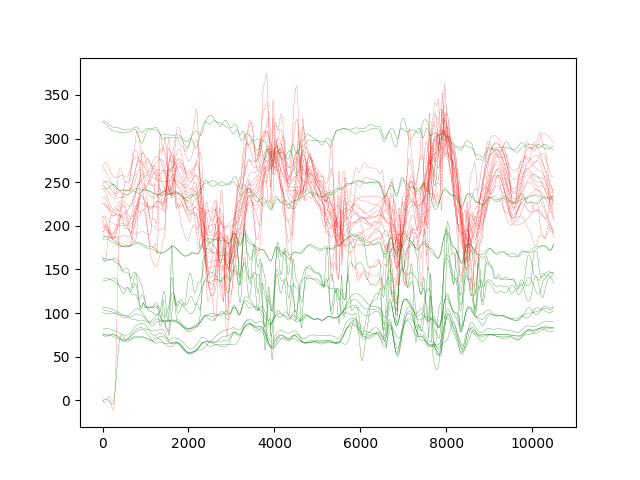
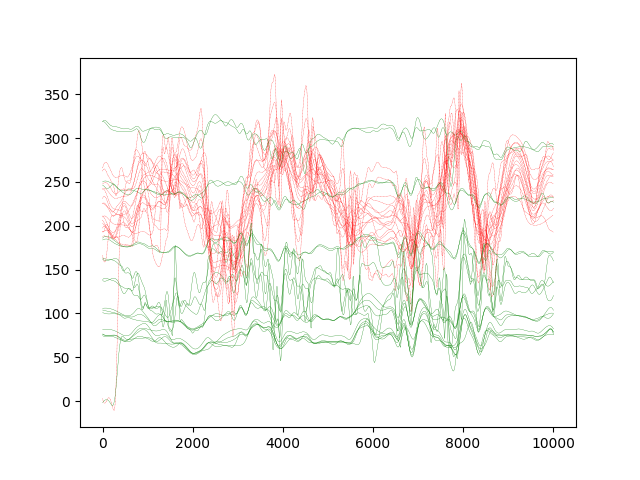
animation interpolation, dynamic frame range, flags dev

diff --git a/src/openpose_3dpose_sandbox.py b/src/openpose_3dpose_sandbox.py
@@ -8,6 +8,7 @@ import re
 import cameras
 import json
 import os
+import time
 from predict_3dpose import create_model
 import cv2
 import imageio
@@ -38,7 +39,7 @@ def read_openpose_json(smooth=True, *args):
     # [x1,y1,c1,x2,y2,c2,...]
     # ignore confidence score, take x and y [x1,y1,x2,y2,...]
 
-    logger.info("start reading data")
+    logger.info("start reading openpose files")
     #load json files
     json_files = os.listdir(openpose_output_dir)
     # check for other file types
@@ -66,8 +67,9 @@ def read_openpose_json(smooth=True, *args):
         cache[int(frame_indx[0])] = xy
     plt.figure(1)
     drop_curves_plot = show_anim_curves(cache, plt)
-    pngName = 'png/dirty_plot.png'
+    pngName = 'gif_output/dirty_plot.png'
     drop_curves_plot.savefig(pngName)
+    logger.info('writing gif_output/dirty_plot.png')
 
     # exit if no smoothing
     if not smooth:
@@ -85,8 +87,8 @@ def read_openpose_json(smooth=True, *args):
     logger.info("start smoothing")
 
     # create frame blocks
-    first_frame_block = [int(re.findall("(\d+)", o)[0]) for o in json_files[:4]]
-    last_frame_block = [int(re.findall("(\d+)", o)[0]) for o in json_files[-4:]]
+    head_frame_block = [int(re.findall("(\d+)", o)[0]) for o in json_files[:4]]
+    tail_frame_block = [int(re.findall("(\d+)", o)[0]) for o in json_files[-4:]]
 
     ### smooth by median value, n frames 
     for frame, xy in cache.items():
@@ -100,10 +102,10 @@ def read_openpose_json(smooth=True, *args):
         # create array of parallel frames (-3<n>3)
         for neighbor in range(1,4):
             # first n frames, get value of xy in postive lookahead frames(current frame + 3)
-            if frame in first_frame_block:
+            if frame in head_frame_block:
                 forward += cache[frame+neighbor]
             # last n frames, get value of xy in negative lookahead frames(current frame - 3)
-            elif frame in last_frame_block:
+            elif frame in tail_frame_block:
                 back += cache[frame-neighbor]
             else:
                 # between frames, get value of xy in bi-directional frames(current frame -+ 3)     
@@ -117,11 +119,11 @@ def read_openpose_json(smooth=True, *args):
         for x in range(0,_len,2):
             # set x and y
             y = x+1
-            if frame in first_frame_block:
+            if frame in head_frame_block:
                 # get vector of n frames forward for x and y, incl. current frame
                 x_v = [xy[x], forward[x], forward[x+_len], forward[x+_len*2]]
                 y_v = [xy[y], forward[y], forward[y+_len], forward[y+_len*2]]
-            elif frame in last_frame_block:
+            elif frame in tail_frame_block:
                 # get vector of n frames back for x and y, incl. current frame
                 x_v =[xy[x], back[x], back[x+_len], back[x+_len*2]]
                 y_v =[xy[y], back[y], back[y+_len], back[y+_len*2]]
@@ -168,20 +170,23 @@ def read_openpose_json(smooth=True, *args):
 def main(_):
     
     smoothed = read_openpose_json()
-    logger.info("reading and smoothing done. start feeding 3d-pose-baseline")
     plt.figure(2)
     smooth_curves_plot = show_anim_curves(smoothed, plt)
-    pngName = 'png/smooth_plot.png'
+    pngName = 'gif_output/smooth_plot.png'
     smooth_curves_plot.savefig(pngName)
+    logger.info('writing gif_output/smooth_plot.png')
     
     if FLAGS.interpolation:
+        logger.info("start interpolation")
+
         framerange = len( smoothed.keys() )
         joint_rows = 36
         array = np.concatenate(list(smoothed.values()))
         array_reshaped = np.reshape(array, (framerange, joint_rows) )
     
-        multiplier = 0.1
+        multiplier = FLAGS.multiplier
         multiplier_inv = 1/multiplier
+
         out_array = np.array([])
         for row in range(joint_rows):
             x = []
@@ -191,20 +196,21 @@ def main(_):
             frame = range( framerange )
             frame_resampled = np.arange(0, framerange, multiplier)
             spl = UnivariateSpline(frame, x, k=3)
+            #relative smooth factor based on jnt anim curve
             min_x, max_x = min(x), max(x)
             smooth_fac = max_x - min_x
-            smooth_fac = smooth_fac * 125
+            smooth_resamp = 125
+            smooth_fac = smooth_fac * smooth_resamp
             spl.set_smoothing_factor( float(smooth_fac) )
             xnew = spl(frame_resampled)
             
             out_array = np.append(out_array, xnew)
     
-        logger.info("done interpolating")
+        logger.info("done interpolating. reshaping {0} frames,  please wait!!".format(framerange))
     
         a = np.array([])
         for frame in range( int( framerange * multiplier_inv ) ):
             jnt_array = []
-            #print(frame)
             for jnt in range(joint_rows):
                 jnt_array.append( out_array[ jnt * int(framerange * multiplier_inv) + frame] )
             a = np.append(a, jnt_array)
@@ -219,9 +225,9 @@ def main(_):
         plt.figure(3)
         smoothed = interpolate_smoothed
         interpolate_curves_plot = show_anim_curves(smoothed, plt)
-        pngName = 'png/interpolate_plot.png'
+        pngName = 'gif_output/interpolate_{0}.png'.format(smooth_resamp)
         interpolate_curves_plot.savefig(pngName)
-
+        logger.info('writing gif_output/interpolate_plot.png')
 
     enc_in = np.zeros((1, 64))
     enc_in[0] = [0 for i in range(64)]
@@ -243,8 +249,9 @@ def main(_):
         #plt.figure(3)
         batch_size = 128
         model = create_model(sess, actions, batch_size)
+        iter_range = len(smoothed.keys())
         for n, (frame, xy) in enumerate(smoothed.items()):
-            logger.info("calc frame {0}".format(frame))
+            logger.info("calc frame {0}/{1}".format(frame, iter_range))
             # map list into np array  
             joints_array = np.zeros((1, 36))
             joints_array[0] = [0 for i in range(36)]
@@ -317,15 +324,18 @@ def main(_):
             logger.debug(poses3d)
             viz.show3Dpose(p3d, ax, lcolor="#9b59b6", rcolor="#2ecc71")
 
-            pngName = 'png/test_{0}.png'.format(str(frame.zfill(5)))
-            if FLAGS.write_output_img:
-                plt.savefig(pngName)
-            png_lib.append(imageio.imread(pngName))
+            pngName = 'png/pose_frame_{0}.png'.format(str(frame).zfill(12))
+            plt.savefig(pngName)
+            if FLAGS.write_gif:
+                png_lib.append(imageio.imread(pngName))
             before_pose = poses3d
 
     if FLAGS.write_gif:
-        logger.info("creating Gif png/movie_smoothing.gif, please Wait!")
-        imageio.mimsave('png/movie_smoothing.gif', png_lib, fps=FLAGS.gif_fps)
+        if FLAGS.interpolation:
+            #take every frame on gif_fps * multiplier_inv
+            png_lib = np.array([png_lib[png_image] for png_image in range(0,len(png_lib), int(multiplier_inv)) ])
+        logger.info("creating Gif png/animation.gif, please Wait!")
+        imageio.mimsave('gif_output/animation.gif', png_lib, fps=FLAGS.gif_fps)
     logger.info("Done!".format(pngName))
 
 

diff --git a/src/predict_3dpose.py b/src/predict_3dpose.py
@@ -53,8 +53,8 @@ tf.app.flags.DEFINE_string("train_dir", "experiments", "Training directory.")
 
 # openpose
 tf.app.flags.DEFINE_string("openpose", "openpose_output", "openpose output Data directory")
-tf.app.flags.DEFINE_boolean("interpolation", True, "interpolate openpose json")
-tf.app.flags.DEFINE_boolean("write_output_img", False, "write predicted frame png image")
+tf.app.flags.DEFINE_boolean("interpolation", False, "interpolate openpose json")
+tf.app.flags.DEFINE_float("multiplier", 0.1, "interpolation frame range")
 tf.app.flags.DEFINE_boolean("write_gif", False, "write final anim gif")
 tf.app.flags.DEFINE_integer("gif_fps", 30, "output gif framerate")
 tf.app.flags.DEFINE_integer("verbose", 2, "0:Error, 1:Warning, 2:INFO*(default), 3:debug")

diff --git a/README.md b/README.md
@@ -54,28 +54,19 @@ This will produce a visualization similar to this:
 
 ### OpenPose to 3d-Pose-Baseline
 
-<p align="left">
-    <img src="/imgs/open_pose_input.gif", width="360">
+<p align="center">
+    <img src="/imgs/open_pose_input.gif", width="360"> <img src="/imgs/output.gif", width="360"> <img src="/imgs/interpolation.gif", width="360">
 </p>
 
-<p align="left">
-    <img src="/imgs/output.gif", width="360">
-</p>
 
 1. Setup [OpenPose](https://github.com/ArashHosseini/openpose) and use `--write_json` flag to export Pose Keypoints. 
 2. Download Pre-trained model below, simply run
 
-`python src/openpose_3dpose_sandbox.py --camera_frame --residual --batch_norm --dropout 0.5 --max_norm --evaluateActionWise --use_sh --epochs 200 --load 4874200 --openpose /path/to/openpose/output/json_directory --gif_fps 30` , optional also `--verbose 3` for debug,
+`python src/openpose_3dpose_sandbox.py --camera_frame --residual --batch_norm --dropout 0.5 --max_norm --evaluateActionWise --use_sh --epochs 200 --load 4874200 --openpose /path/to/openpose/output/json_directory --write_gif `  optional also `--verbose 3` for debug and for interpolation add `--interpolation` and use `--multiplier` flag to set the interpolated frame range. 
 
-frame drops
+frame drops, -holding, -interpolation
 
-![Fps drops](/imgs/dirty_plot.png?raw=1)
-
-holding
-![holding](/imgs/smooth_plot.png?raw=1)
-
-interpolation
-![interpolate](/imgs/interpolate_plot.png?raw=1)
+![Fps drops](/imgs/dirty_plot.png?raw=1) ![holding](/imgs/smooth_plot.png?raw=2) ![interpolate](/imgs/interpolate_plot.png?raw=3)
 
 ### Training
 
